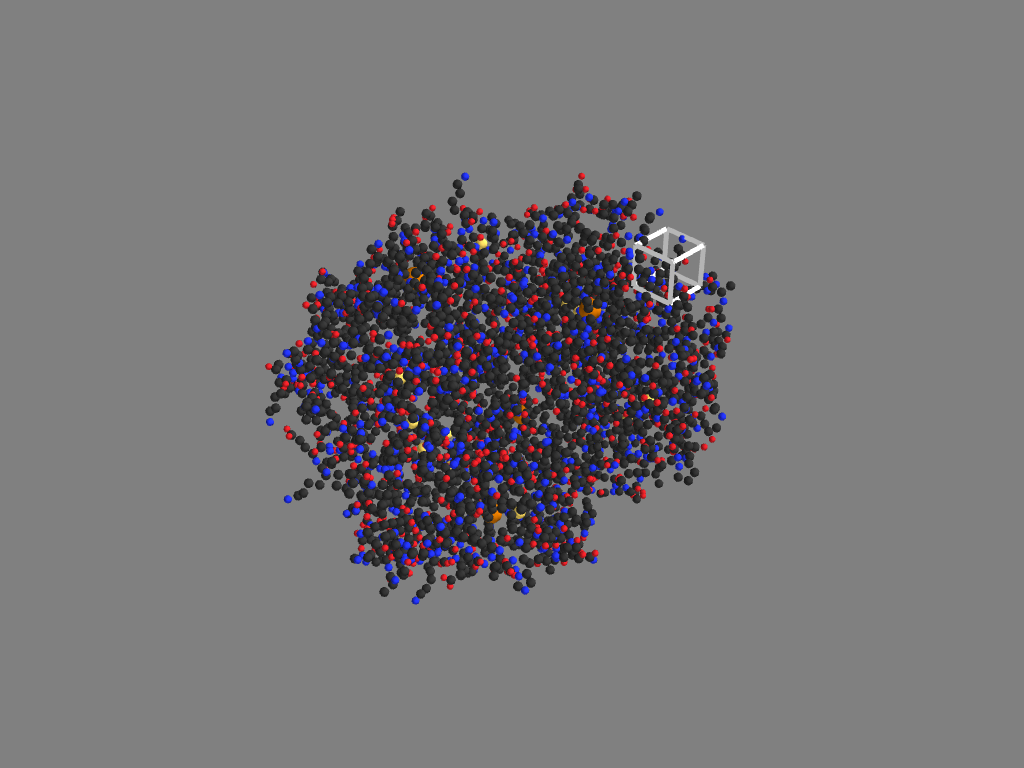
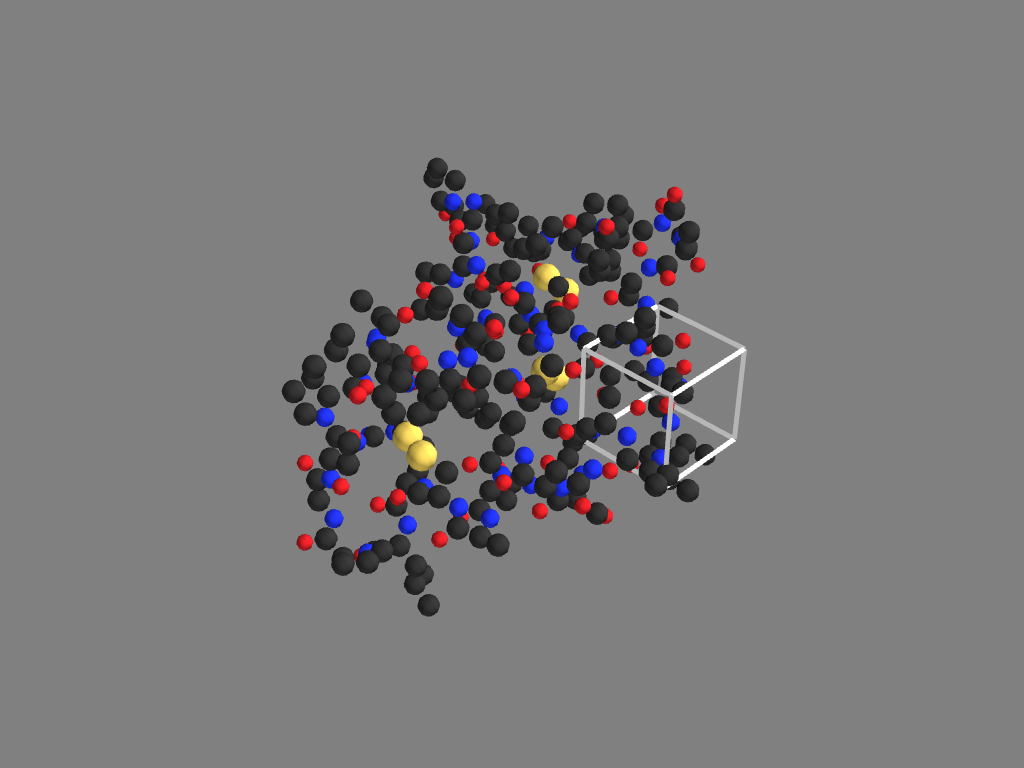
Minor fixes
Bugs fixed for residue box

Changed region(s): [[0.25, 0.1875, 0.75, 0.8125]]

diff --git a/main.py b/main.py
@@ -169,6 +169,10 @@ class DataHandler:
         pmol = PandasMol2().read_mol2(fname)
         my = pmol.df[pmol.df['subst_id'] == res]
         
+        if len(my) == 0:
+            print("ERROR: No such residue: ", res)
+            return 1
+        
         fid = my.iloc[0]['atom_id'] -1
         curr_chain = 0
         actual = pd.DataFrame(columns = list(my))
@@ -182,20 +186,16 @@ class DataHandler:
         # if com option calculate Centre of mass
         if option.upper() == "COM":
             COM_sum = [0.0, 0.0, 0.0]
-            a = 0
             mass_dict = import_atm_mass_info()
+            a = 0
             for i in range(len(actual)):
                 m = mass_dict[actual.iloc[i]['atom_type'][0]]
                 COM_sum[0] += actual.iloc[i]['x'] * m
                 COM_sum[1] += actual.iloc[i]['y'] * m
                 COM_sum[2] += actual.iloc[i]['z'] * m
                 a += m
-            COM = COM_sum
             
-            if a != 0:
-                COM = [i/a for i in COM_sum]
-            else:
-                print("No such residue: ", res)
+            COM = [i/a for i in COM_sum]
             return COM
             
         # if charge option calculate residue charge
@@ -203,10 +203,6 @@ class DataHandler:
             charge = 0.0
             for i in range(len(my)):
                 charge += my.iloc[i]['charge']
-                
-            a = len(my['charge'])
-            if a == 0:
-                print("No such residue: ", res)
 
             return charge
     
@@ -300,7 +296,7 @@ class StickPoint:
             if not vw:
                 sphere = pv.Sphere(radius=self._atoms_size_dict[atoms_type], phi_resolution=phi_res, theta_resolution=theta_res)
             else:
-                sphere = pv.Sphere(radius=(vw_dict[atoms_type] + rad), phi_resolution=phi_res, theta_resolution=theta_res)
+                sphere = pv.Sphere(radius=(self._vw_dict[atoms_type] + rad), phi_resolution=phi_res, theta_resolution=theta_res)
             glyphs = mesh.glyph(geom=sphere)
             atoms_spheres.append(glyphs)
 
@@ -516,16 +512,16 @@ class Surface:
 
     def new_surface(self, atoms, atmsrf, col):
         
-        by_type = list(atoms.values())
-        points_ = []
-        for i in range(len(by_type)):
-            points_.extend(by_type[i])
-        points = np.array(points_)
-        hull = Delaunay(points)
-        indices = hull.simplices
-        faces = np.hstack(indices)
-        vertices = points[indices]
-        vertices_ = vertices.squeeze()
+#        by_type = list(atoms.values())
+#        points_ = []
+#        for i in range(len(by_type)):
+#            points_.extend(by_type[i])
+#        points = np.array(points_)
+#        hull = Delaunay(points)
+#        indices = hull.simplices
+#        faces = np.hstack(indices)
+#        vertices = points[indices]
+#        vertices_ = vertices.squeeze()
 
         #############======================
 
@@ -678,7 +674,7 @@ class Residue():
     
                                     
 def main():
-    name =   "data/1a3n" # "data/2fd7" #
+    name = "data/2fd7" # "data/1a3n" #
     density = 3.0
     solvent = 0
     bash = 0
@@ -702,15 +698,15 @@ def main():
     res_data = dh.get_residues()
     ress, colors_r = sp.pre_plot_residues(res_data)
     ## Create residue for plotting with bounding box
-    r = Residue(60)
+    r = Residue(6)
     ## plot stick and balls model
     sp.plot_stick_ball(atoms=atoms, col_s=colors, box=0, vw=0, bonds=0, residues=0, col_r=0, res=r)
 #
 #
 #    ## plot surface
 #    fc = FileConverter(name, density, solvent, bash)
-    s = Surface(name)
-    out_name = name + "_out_" + str(int(density))
+#    s = Surface(name)
+#    out_name = name + "_out_" + str(int(density))
 #    s.plot_surface(out_name)
 #    atmsurf, col = sp.pre_plot_atoms(atom_data, vw=1, probe=1)
 #    s.new_surface(atom_data, atmsurf, col)
